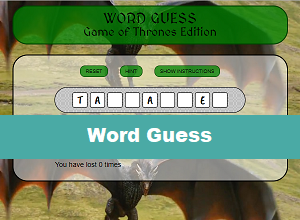
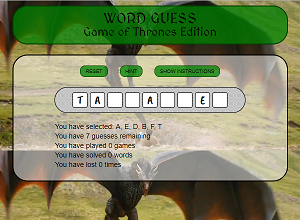
add word guess to portfolio

Changed region(s): [[0.0, 0.5182, 1.0, 0.7364]]

diff --git a/portfolio.html b/portfolio.html
@@ -32,21 +32,56 @@
             <hr>
             <br>
 
-            <center>
-                <a href="https://bmccutchanjr.github.io/Word-Guess-Game/" target="_blank">
-                    <img src="assets/images/wordguess.png" alt="Word Guess Game" class="app-image">
-                </a>
-                <img src="http://placehold.it/300x220" alt="placeholder for app #2" class="app-image">
-                <br>
+            <div class="app-row">
+                <div class="app-div">
+                    <a href="https://bmccutchanjr.github.io/Word-Guess-Game/" target="_blank">
+                        <img src="assets/images/wordguess.png" alt="Word Guess Game" class="app-image">
+                    </a>
+                    <div class="app-banner">
+                        Word Guess Game
+                    </div>
+                </div>
 
-                <img src="http://placehold.it/300x220" alt="placeholder for app #3" class="app-image">
-                <img src="http://placehold.it/300x220" alt="placeholder for app #4" class="app-image">
-                <br>
+                <div class="app-div">
+                    <img src="http://placehold.it/300x220" alt="placeholder for app #2" class="app-image">
+                    <div class="hold-banner">
+                        assignment #2
+                    </div>
+                </div>
+            </div>
+            <br>
 
-                <img src="http://placehold.it/300x220" alt="placeholder for app #5" class="app-image">
-                <img src="http://placehold.it/300x220" alt="placeholder for app #6" class="app-image">
-            </center>
+            <div class="app-row">
+                <div class="app-div">
+                    <img src="http://placehold.it/300x220" alt="placeholder for app #2" class="app-image">
+                    <div class="hold-banner">
+                        assignment #3
+                    </div>
+                </div>
+                
+                <div class="app-div">
+                    <img src="http://placehold.it/300x220" alt="placeholder for app #2" class="app-image">
+                    <div class="hold-banner">
+                        assignment #4
+                    </div>
+                </div>
+            </div>
+            <br>
 
+            <div class="app-row">
+                <div class="app-div">
+                    <img src="http://placehold.it/300x220" alt="placeholder for app #2" class="app-image">
+                    <div class="hold-banner">
+                        assignment #5
+                    </div>
+                </div>
+                <div class="app-div">
+                    <img src="http://placehold.it/300x220" alt="placeholder for app #2" class="app-image">
+                    <div class="hold-banner">
+                        assignment #6
+                    </div>
+                </div>
+            </div>
         </section>
     </main>
 

diff --git a/save-portfolio.html b/save-portfolio.html
@@ -1,0 +1,59 @@
+<!DOCTYPE html>
+<html lang="en-us">
+<head>  
+    <meta charset="UTF-8">
+    <meta name="viewport"
+          content="width=device-width, initial-scale=1.0">
+    <title>Responsive Portfolio</title>
+
+    <link href="assets/css/style.css"
+          rel="stylesheet"
+          type="text/css">
+    <style>
+    </style>
+</head>
+<body>
+<div class="wrapper">
+    <header>
+        <div class="header">
+            <h1>Bill McCutchan</h1>
+
+            <nav>
+                <a href="index.html">About Me</a>
+                <a href="contact.html">Contacts</a>
+                <a href="portfolio.html">Portfolio</a>
+            </nav>
+        </div>
+    </header>
+
+    <main class="about">
+        <section>
+            <h2>Portfolio</h2>
+            <hr>
+            <br>
+
+            <center>
+                <a href="https://bmccutchanjr.github.io/Word-Guess-Game/" target="_blank">
+                    <img src="assets/images/wordguess.png" alt="Word Guess Game" class="app-image">
+                </a>
+                <img src="http://placehold.it/300x220" alt="placeholder for app #2" class="app-image">
+                <br>
+
+                <img src="http://placehold.it/300x220" alt="placeholder for app #3" class="app-image">
+                <img src="http://placehold.it/300x220" alt="placeholder for app #4" class="app-image">
+                <br>
+
+                <img src="http://placehold.it/300x220" alt="placeholder for app #5" class="app-image">
+                <img src="http://placehold.it/300x220" alt="placeholder for app #6" class="app-image">
+            </center>
+
+        </section>
+    </main>
+
+    <div class="push"></div>
+</div>
+
+<footer>Copyright&copy;</footer>
+
+</body>
+</html>

diff --git a/assets/css/save-style.css b/assets/css/save-style.css
@@ -165,47 +165,15 @@ h1
     width: 100%;
 }
 
-.app-row
-{   background: yellow;
-    height: auto;
-    margin: 0 auto;
-    width: 652px;
-}
-
-.app-div
+.app-image
 {   border-color: var(--text-color);
     border-style: solid;
     border-radius: 2px;
     border-width: 1px;
-    float: left;
-    height: auto;
     margin-bottom: 10px;
     margin-right: 10px;
     margin-left: 10px;
     padding: 2px;
-    position: relative;
-    width: 306px;
-}
-
-.add-div img
-{   width: 100%;
-}
-
-.app-banner, .hold-banner
-{   background: var(--main-color);
-    color: white;
-    font-family: sans-serif;
-    font-size: 14px;
-    font-weight: bold;
-    padding: 10px;
-    position: absolute;
-    text-align: center;
-    top: 50%;
-    width: 100%;
-}
-
-.hold-banner
-{   background: #8f8f8f;
 }
 
 /* end style specific to portfolio
@@ -242,19 +210,11 @@ footer
 {   .about, .header
     {   width: 75%;
     }
-
-    .app-row
-    {   width: 306px;
-    }
 }
 
 @media screen and (max-width: 768px)
 {   .about, .header
     {   width: 85%;
-    }
-
-    .app-row, .app-div, .app-div img
-    {   width: 100%;
     }
 }
 
